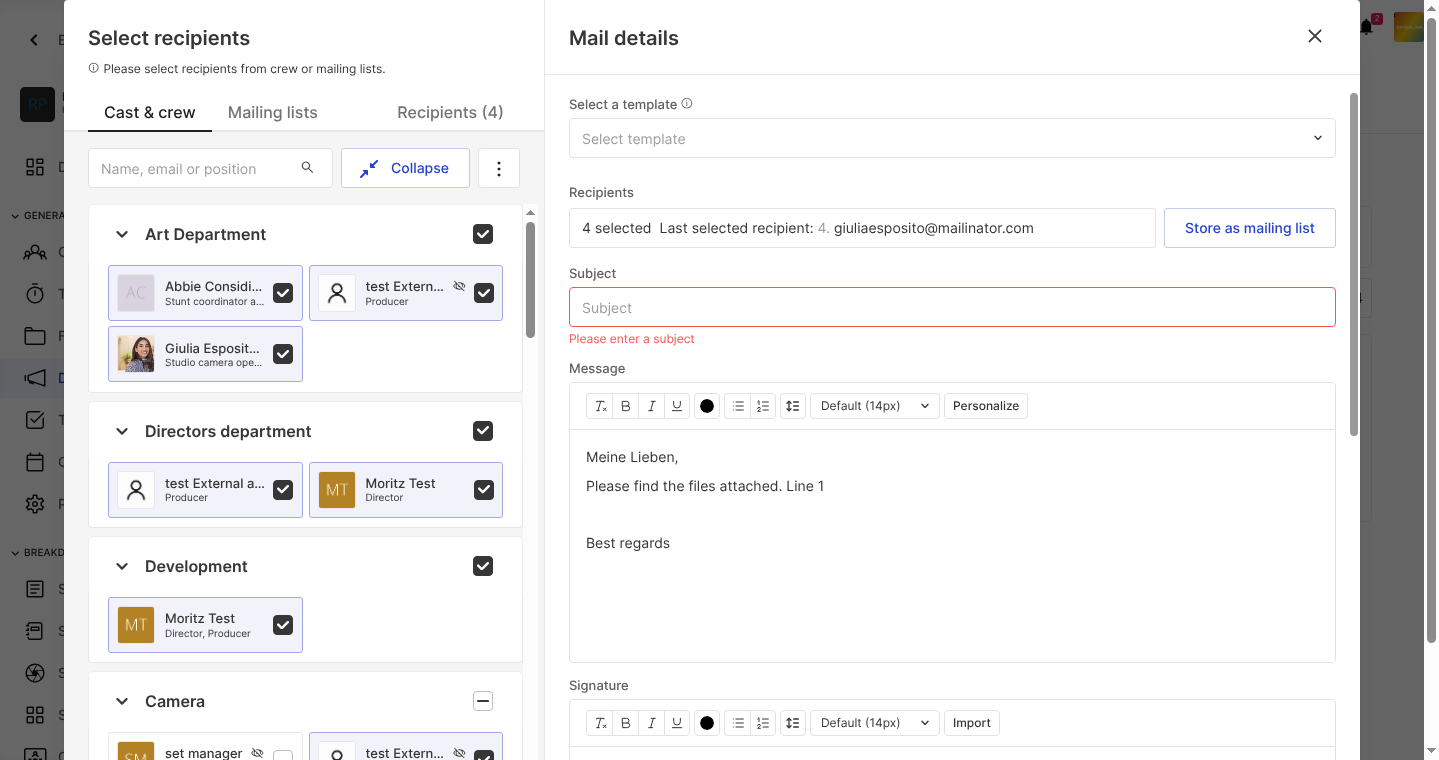
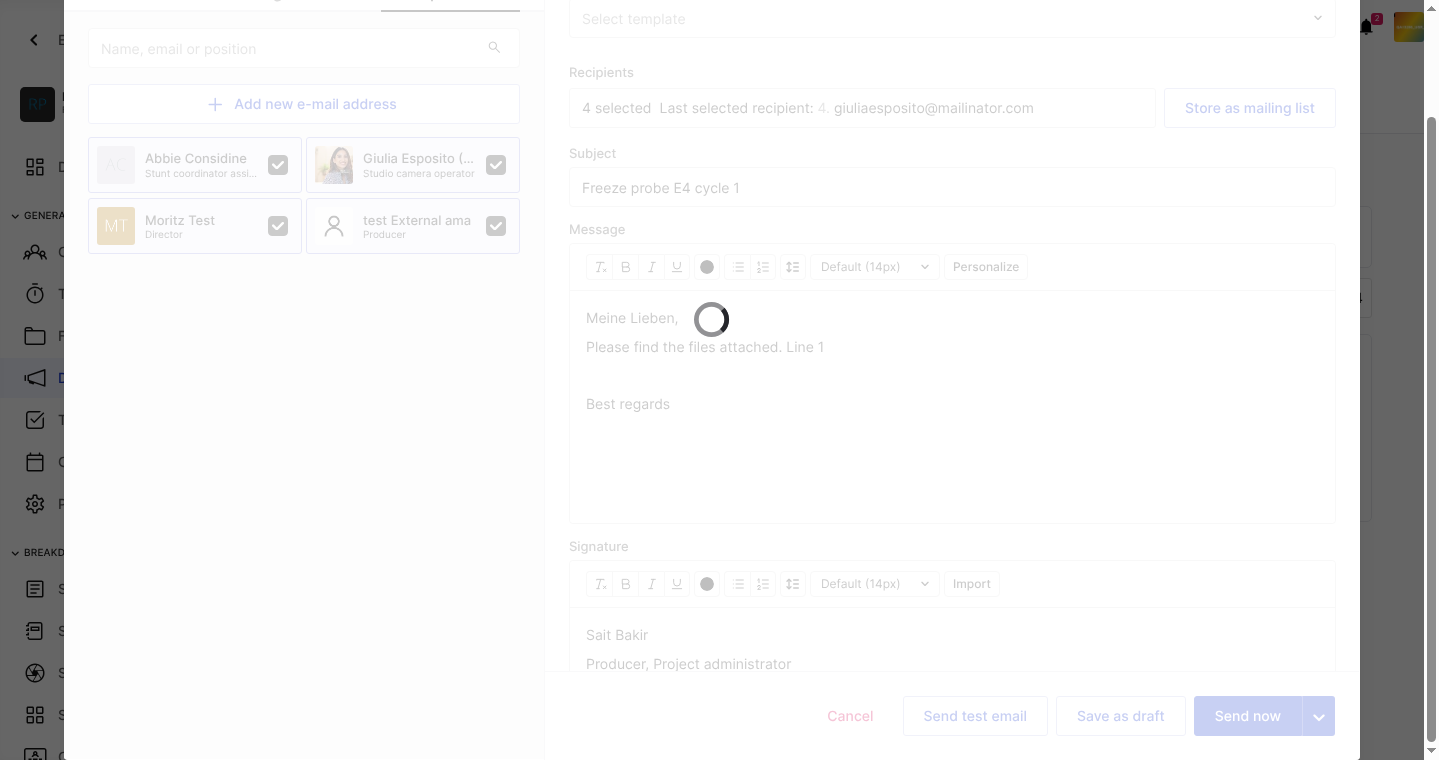
run-20261007T0501Z: E4 candidate freezes CF1/CF2, confirmations, ledger/state/findings
Claude-Session: https://claude.ai/code/session_01Wq3tsKv9MGfyBLkG8PpERa

diff --git a/investigation/findings.md b/investigation/findings.md
@@ -1,7 +1,10 @@
 # Findings (cumulative)
 
-- Status: no freeze reproduced; no root cause. Historical H1-H7 imported negatives (2026-10-03, Windows, Chromium 152).
-- Run 20261006T1158Z: BLOCKED (scotty egress 403). Run 20261006T1215Z: scotty reachable; login (two-step: email -> Next -> password) and project #5551 verified.
-- Lead (build difference): the Distribution sharing modal editor in the current scotty build is TipTap/ProseMirror. Historical Froala-leak simulation (H4) may not reflect this build; treat H4 negative as not applicable to this editor.
-- E1 (16 recipients + 6 files incl. 37 MB, Enter, Check recipients): NOT REPRODUCED. E3 (CDP freeze/resume 15/45/90 s, modal open, draft save): NOT REPRODUCED. E2 (true hidden transitions): BLOCKED - hidden state not attainable in cloud Chromium; editors were not recreated while 'visible'.
-- Cannot confirm/refute the prior report of editor destruction while hidden.
+- Status: candidate REPRODUCED in cloud (run-20261007T0501Z): 2 persistent renderer hangs (CF1, CF2) out of 3 attempts. Not minimized; root cause unproven.
+- Signature: renderer main thread pinned >100% CPU for minutes (still running when killed), memory growing (451->461 MB; 663 MB), DevTools commands unanswered. Native stack samples show JS calling Node.removeChild/insertBefore, MutationObserver record enqueue and table layout (TableRowLayoutAlgorithm) repeatedly = busy DOM mutation loop, i.e. not I/O or a one-shot slow layout. This is consistent with an infinite/very long re-render loop; not a proven leak and not Enter-specific.
+- CF1: in sharing modal after typing 'Meine Lieben,' (Enter pending), 4 recipients (8 ticks incl. dept/dupes), external e-mail typed; a draft had been saved earlier in same tab.
+- CF2: reopening a saved draft (4 recipients) from Distribution > Drafts in a fresh session.
+- Not reproduced: E4-C1 (fresh session, no saved draft, identical modal sequence incl. external e-mail + 'Meine Lieben,' + Enter).
+- Leading hypothesis H8: existing saved draft with recipients / external-email contact + modal reopen or following modal open drives a render loop. Needs minimization (see state.json next_experiment).
+- Confounds: Chrome Save-password bubble in both screenshots; Xvfb/no WM; CDP-driven; Chromium 141 on Linux (customer: Chrome on macOS/Windows, Firefox, Safari NOT TESTED). The prior run's reading (editor recreation while hidden) is not needed to explain these hangs (page stayed visible).
+- Earlier (2026-10-06) runs: E1/E3 not reproduced, E2 blocked; those had no saved-draft-then-reopen preceding state except E3 (saved draft, never reopened).

diff --git a/investigation/evidence/run-20261007T0501Z/CANDIDATE-notes.md b/investigation/evidence/run-20261007T0501Z/CANDIDATE-notes.md
@@ -6,3 +6,9 @@
 - gdb samples (no symbols for JS): main thread alternates among blink::Node::removeChild (LayoutObjectChildList::RemoveChildNode, Range::NodeWillBeRemoved) called from JS (v8 RemoveChildOperationCallback) and Table layout (TableRowLayoutAlgorithm / BlockLayoutAlgorithm) => JS loop doing DOM removals with forced layout of a table; not a hang in a network/IO wait.
 - Confound: Chrome "Save password?" bubble (browser UI) visible in screenshot candidate-xvfb.png; unsupported --no-sandbox infobar; no window manager.
 - Page unresponsive dialog NOT shown (no WM / headed Xvfb).
+
+# Candidate freeze CF2 (confirmation 2, fresh browser profile + fresh login 05:11:46Z)
+- Driver e4b = same e4 driver from a fresh session. Cycle 1 completed normally (open modal, 8 ticks, external email entry, subject, greeting+Enter+text, 30 s idle, Check recipients skipped, Save as draft, close, nav files/scenes, nav Distribution > Drafts).
+- Hang at 05:15:26Z-05:16:01Z during step "reopen-draft": click draft row 'Freeze probe E4 cycle 1' (4 recipients) -> modal reopened with draft content (screenshot candidate-conf2-xvfb.png shows modal rendered, Recipients (4), all department headers ticked), then click editor/End/Enter/type 'reopened 1' pending.
+- Renderer pid 1395: R state 108% CPU, RSS 663 MB (higher than CF1 at 451-461 MB). gdb samples (conf2-gdb-samples.txt): Node.insertBefore + MutationObserver::EnqueueMutationRecord, Table constraint-space free, mojo send -> DOM insert/remove churn plus table layout, same signature as CF1 (removeChild/Range::NodeWillBeRemoved/TableRowLayout).
+- Confirmation 1 (cf.js conf1, fresh login, no prior draft, same hang-site sequence incl. external email + 'Meine Lieben,' + Enter): NOT reproduced.

diff --git a/investigation/runs/run-20261007T0501Z.md b/investigation/runs/run-20261007T0501Z.md
@@ -1,3 +1,8 @@
 # run-20261007T0501Z
-Previous run: run-20261006T1215Z (recovered from origin/claude/brave-clarke-dmh2zc @ 8ed887b; earlier lineage run-20261006T1158Z on nwifqr).
-Status: IN PROGRESS (interim checkpoint). Planned: E4 sustained mixed-use session (one tab, no reload) incl. 'add new e-mail address' external contact path, repeated Distribution modal revisits.
+Previous run: run-20261006T1215Z (recovered from origin/claude/brave-clarke-dmh2zc 8ed887b). Start 05:01Z, active ~20 min.
+Env: Linux 6.18 cloud; Playwright Chromium 141.0.7390.37 (not Chrome), headed on Xvfb, CDP-attached; scotty login + project #5551 verified (credentials not stored). Windows/macOS/Firefox/Safari: NOT TESTED.
+Experiments: E4 (sustained mixed use) -> candidate freeze CF1; E4-C1 minimal fresh-session repeat NOT REPRODUCED; E4-C2 full driver fresh session -> candidate freeze CF2 at draft reopen. Two confirmations used; stopped there per protocol.
+Session history: E4 session login 05:03Z (one aborted driver pilot cycle with draft save), hang ~05:06:50Z, browser killed after evidence capture; C1/C2 fresh profile/login 05:11:46Z. Last full reload for each = login.
+Evidence: investigation/evidence/run-20261007T0501Z/ (CANDIDATE-notes.md, screenshots, gdb samples, steps-*.jsonl, e4-driver.js).
+Test data left in project 5551: drafts 'Freeze probe E4 cycle 1' (x several), plus E3 draft.
+Next: see state.json.
